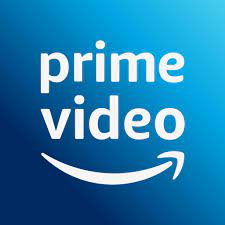
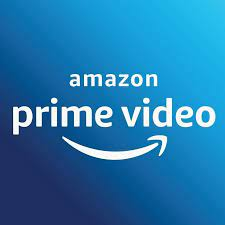
second commit

diff --git a/index.html b/index.html
@@ -166,32 +166,21 @@
 
         <div class="col-md-3">
           <div class="card" style="width: 18rem;">
-            <img src="./assets/images/netflix.png" class="card-img-top" alt="...">
+            <img src="./assets/images/prime.png" class="card-img-top" alt="...">
             <div class="card-body d-flex justify-content-between">
-              <div class="card-title"><p class="fs-4">NETFLIX</p></div> 
+              <div class="card-title"><b><p class="fs-6">AMAZON PRIME</p></b></div> 
               <div><button type="button" class="btn btn-outline-success float-right">Join Group</button></div>
             </div>
 
             <div class="accordion" id="accordionExample">
-              <div class="accordion-item">
-                <h2 class="accordion-header" id="headingOne">
-                  <button class="accordion-button" type="button" data-bs-toggle="collapse" data-bs-target="#collapseOne" aria-expanded="true" aria-controls="collapseOne">
-                   <strong>Single Screen</strong> 
-                  </button>
-                </h2>
-                <div id="collapseOne" class="accordion-collapse collapse show" aria-labelledby="headingOne" data-bs-parent="#accordionExample">
-                  <div class="accordion-body">
-                    Rs 99/month <i>Use a single screen on any device.</i>
-                  </div>
-                </div>
-              </div>
+
               <div class="accordion-item">
                 <h2 class="accordion-header" id="headingTwo">
-                  <button class="accordion-button collapsed" type="button" data-bs-toggle="collapse" data-bs-target="#collapseTwo" aria-expanded="false" aria-controls="collapseTwo">
-                    <strong>Dual(2) Screens</strong> 
+                  <button class="accordion-button collapsed" type="button" data-bs-toggle="collapse" data-bs-target="#prime1" aria-expanded="false" aria-controls="collapseTwo">
+                    <strong>1 Month Prime</strong> 
                   </button>
                 </h2>
-                <div id="collapseTwo" class="accordion-collapse collapse" aria-labelledby="headingTwo" data-bs-parent="#accordionExample">
+                <div id="prime1" class="accordion-collapse collapse" aria-labelledby="headingTwo" data-bs-parent="#accordionExample">
                   <div class="accordion-body">
                     Rs 99/month <i>Use a single screen on any device.</i>
                   </div>
@@ -200,7 +189,7 @@
               <div class="accordion-item">
                 <h2 class="accordion-header" id="headingThree">
                   <button class="accordion-button collapsed" type="button" data-bs-toggle="collapse" data-bs-target="#collapseThree" aria-expanded="false" aria-controls="collapseThree">
-                    <strong>4 Screens(Best Offer)</strong> 
+                    <strong>6 Months Prime(Best Offer)</strong> 
                   </button>
                 </h2>
                 <div id="collapseThree" class="accordion-collapse collapse" aria-labelledby="headingThree" data-bs-parent="#accordionExample">
@@ -220,7 +209,7 @@
 
         <div class="col-md-3">
           <div class="card" style="width: 18rem;">
-            <img src="./assets/images/netflix.png" class="card-img-top" alt="...">
+            <img src="./assets/images/ullu.png" class="card-img-top" alt="...">
             <div class="card-body d-flex justify-content-between">
               <div class="card-title"><p class="fs-4">NETFLIX</p></div> 
               <div><button type="button" class="btn btn-outline-success float-right">Join Group</button></div>
